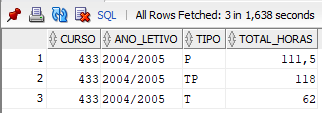
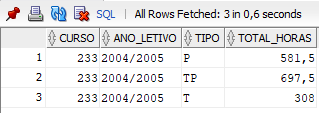
Fix question 2 query

diff --git a/Assignment1/question2/question2.md b/Assignment1/question2/question2.md
@@ -12,7 +12,7 @@ JOIN
     XTIPOSAULA tipo ON
         tipo.codigo = ucs.codigo
 WHERE
-    ucs.curso = 433 AND
+    ucs.curso = 233 AND
     tipo.ano_letivo = '2004/2005'
 GROUP BY
     ucs.curso,
